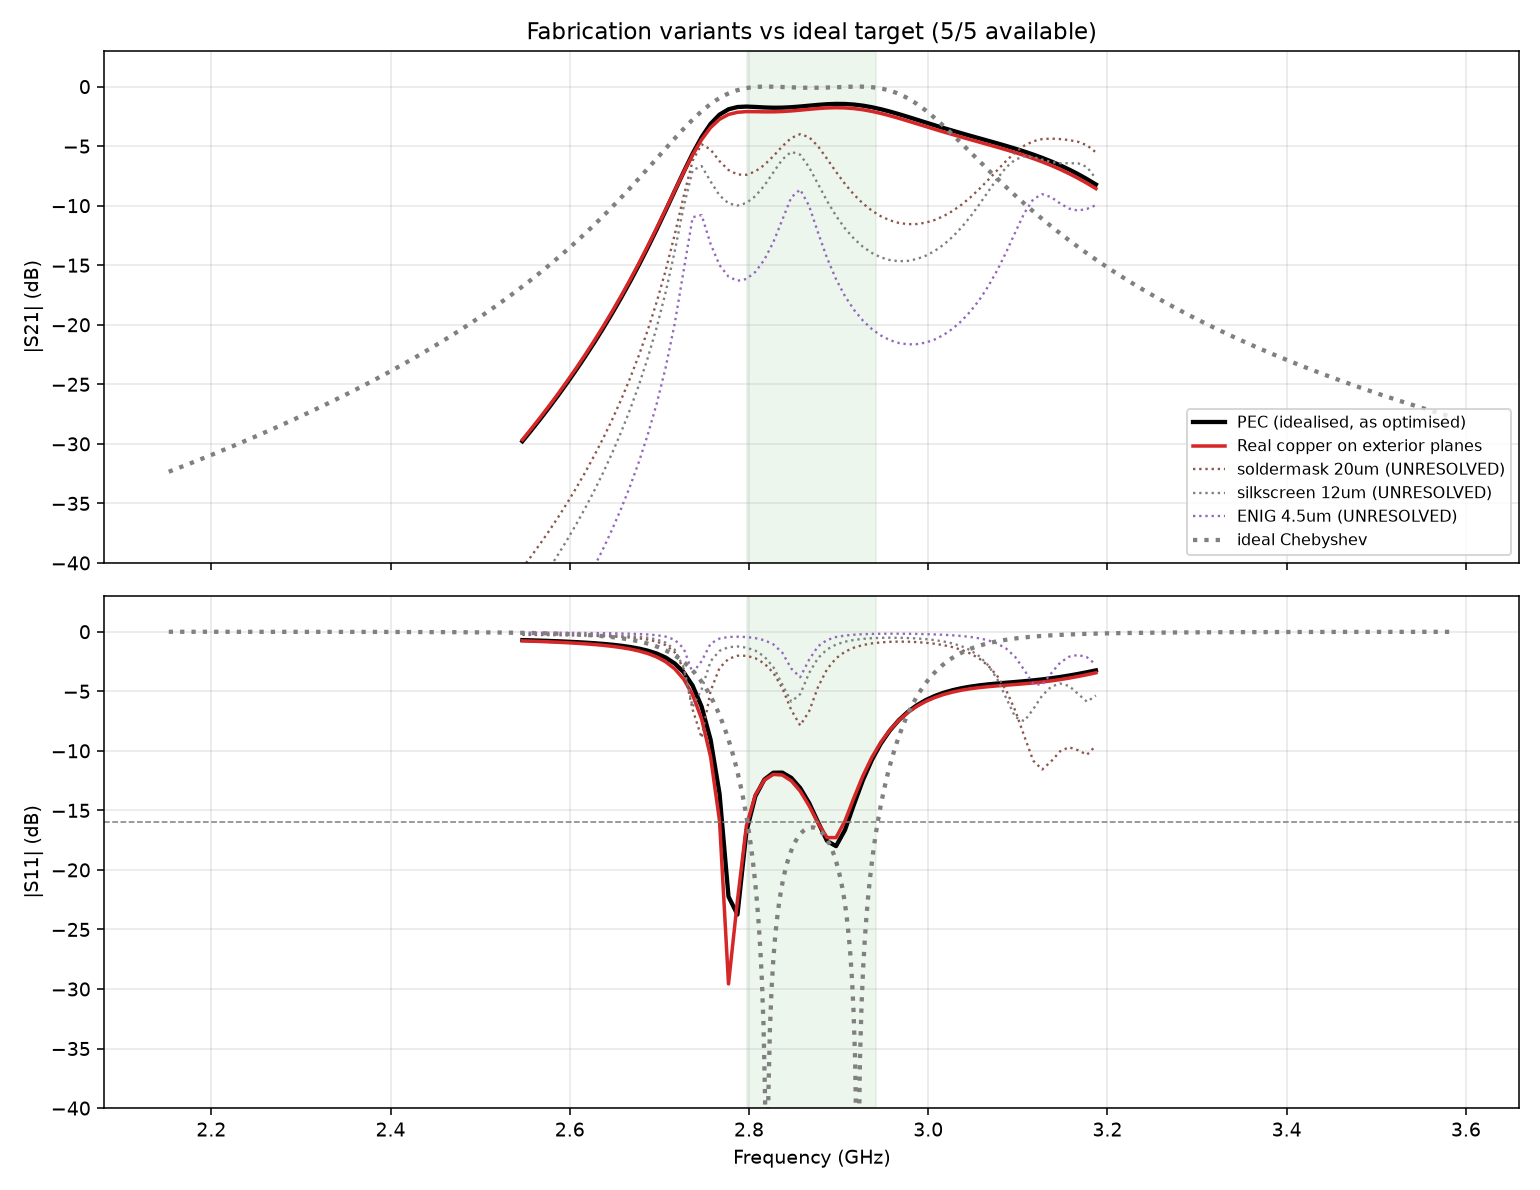
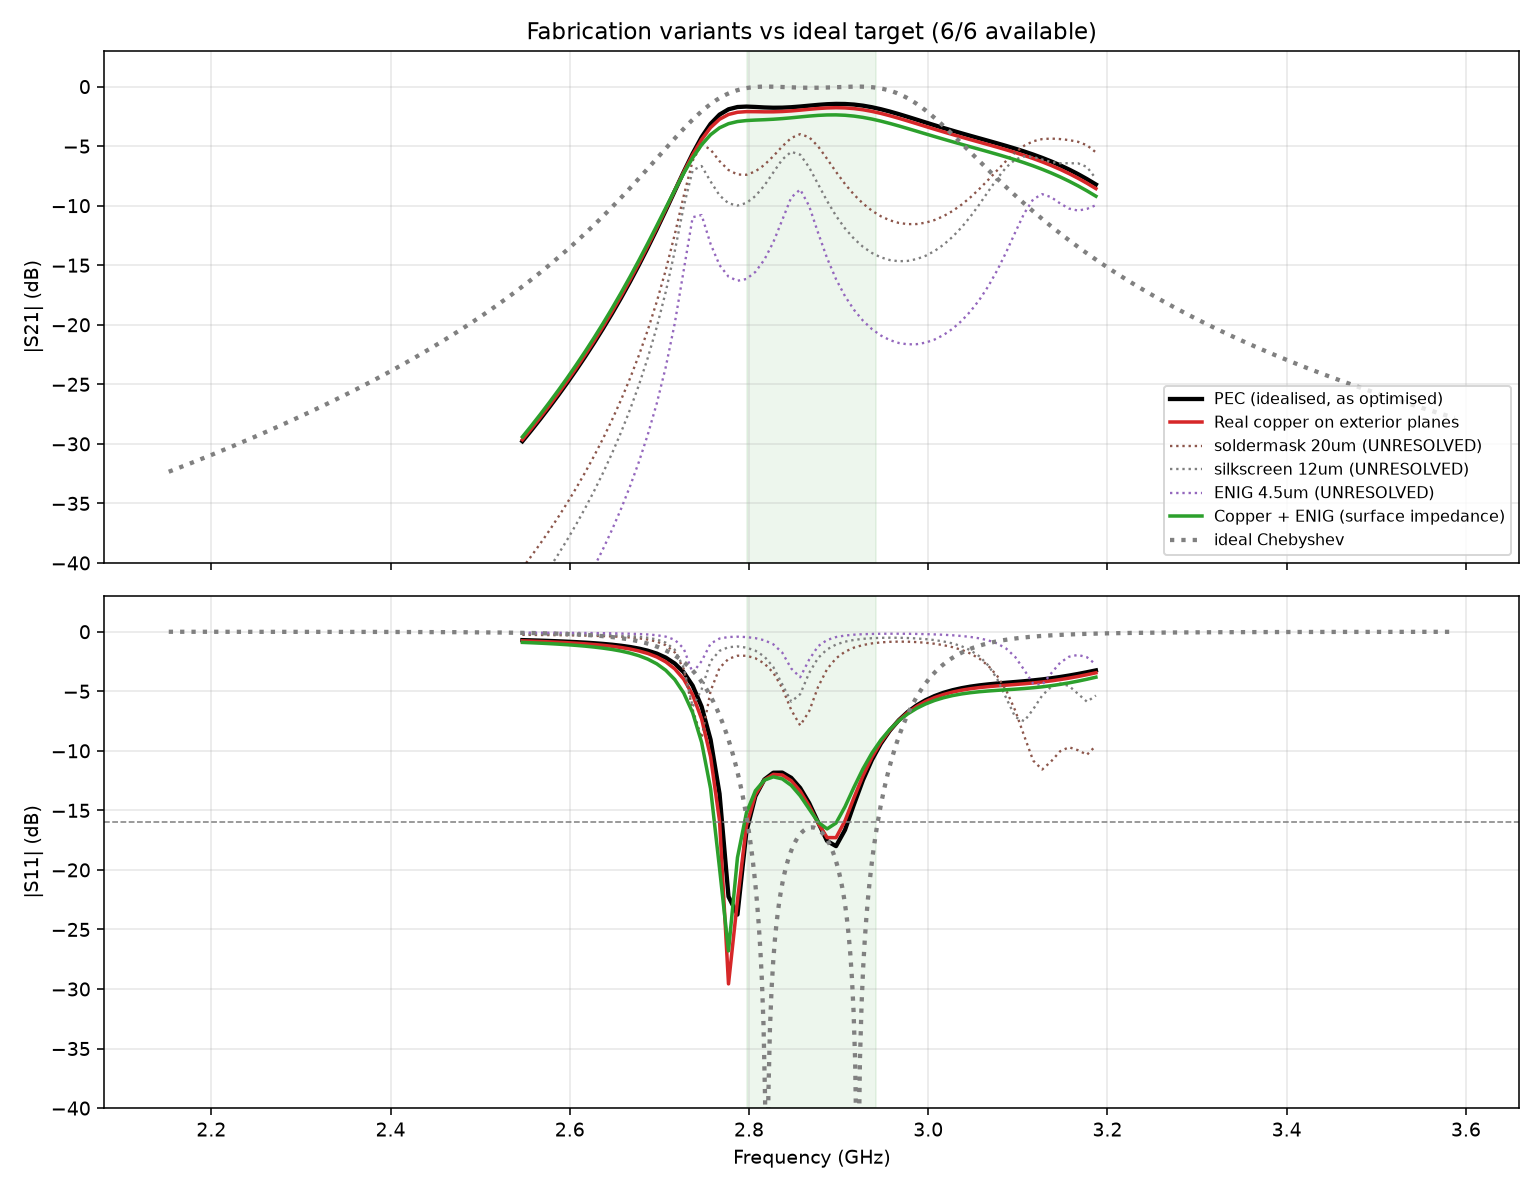
fix: draw the CPWG feed the way the mesher builds it; port copper to cascade
DRAWING-VS-MESH DRIFT (user-spotted, twice over). layout_plot drew the feed
as a constant-width microstrip all the way to the board edge, but both
meshers narrow it to cpwg_w_feed_mm through the coplanar section and taper
out to the microstrip width where the pours end (palace_driven:194,
palace_dualmode_driven:638) -- a CPWG's 50-ohm width is set by its gap, not
by the microstrip formula. Consequences in the picture:
  coplanar gap drawn 0.019mm vs the real 0.2512mm (trace nearly touching
  the pour), and the CPWG taper missing entirely.
So published cascade layouts showed a launch that was never simulated. The
SIMULATIONS were always correct -- cascade has meshed the CPWG launch since
2026-08-31 and the landed N=3 optimization (2026-09-01, two local GP rounds)
used it throughout.

Also fixed the same label bug the user caught earlier on the dual-mode
stackup: the title printed n_gnd_stitch (the REQUEST, 6) instead of the
geometry actually produced (8 per side). _draw_launch_footprint now returns
measured counts and the drawn gap, and the title reports those.

plot_layout gains zoom_launch=True: at board scale a 0.2512mm gap across
~170mm is sub-pixel, so the footprint could not be inspected at all.

COPPER PORTED TO CASCADE. The exterior-face split + Boundaries.Conductivity
surface impedance existed only in palace_dualmode_driven; palace_driven had
none, which is why --real-metal refused for cascade. Ported with the
[…]

diff --git a/src/siwfilter/cli.py b/src/siwfilter/cli.py
@@ -273,8 +273,17 @@ def cmd_design(args) -> int:
     # Pair with `siw synth-design` to generate that seed.
     fab = {}
     if getattr(args, "real_metal", False) or getattr(args, "enig", False):
-        if args.topology != "dualmode":
-            print("--enig/--real-metal are only wired for dualmode so far"); return 1
+        # --real-metal now works for CASCADE too (the exterior-face split was
+        # ported into palace_driven on 2026-09-03). --enig still does not:
+        # ENIG/soldermask/silkscreen are meshed layers, unresolvable at this
+        # mesh density, and ENIG is in any case shielded behind ~14 skin
+        # depths of ground-plane copper. See docs/STATE.md.
+        if args.topology == "cascade" and getattr(args, "enig", False):
+            print("--enig is not available for cascade (and is an RF no-op: the "
+                  "plating sits on the shielded side of the ground plane). Use "
+                  "--real-metal."); return 1
+        if args.topology not in ("dualmode", "cascade"):
+            print("--enig/--real-metal are only wired for dualmode/cascade so far"); return 1
         from .topologies.dualmode import (JLCPCB_METAL, JLCPCB_ENIG,
                                           JLCPCB_SOLDERMASK, JLCPCB_SILKSCREEN, VIA_OPEN)
         fab.update(JLCPCB_METAL)
@@ -717,8 +726,17 @@ def cmd_sweep(args) -> int:
     else:
         params = _parse_params(args.params)
     if getattr(args, "enig", False) or getattr(args, "real_metal", False):
-        if args.topology != "dualmode":
-            print("--enig/--real-metal are only wired for dualmode so far"); return 1
+        # --real-metal now works for CASCADE too (the exterior-face split was
+        # ported into palace_driven on 2026-09-03). --enig still does not:
+        # ENIG/soldermask/silkscreen are meshed layers, unresolvable at this
+        # mesh density, and ENIG is in any case shielded behind ~14 skin
+        # depths of ground-plane copper. See docs/STATE.md.
+        if args.topology == "cascade" and getattr(args, "enig", False):
+            print("--enig is not available for cascade (and is an RF no-op: the "
+                  "plating sits on the shielded side of the ground plane). Use "
+                  "--real-metal."); return 1
+        if args.topology not in ("dualmode", "cascade"):
+            print("--enig/--real-metal are only wired for dualmode/cascade so far"); return 1
         from .topologies.dualmode import (JLCPCB_ENIG, JLCPCB_METAL,
                                           JLCPCB_SOLDERMASK, JLCPCB_SILKSCREEN,
                                           VIA_COVERED, VIA_OPEN)
@@ -801,9 +819,31 @@ def _fab_variant_specs():
     return [
         ("pec_optimized",   {}),
         ("only_cu",         {**JLCPCB_METAL}),       # exterior-plane surface impedance
-        ("only_enig",       {**JLCPCB_ENIG}),        # ENIG conductor domain
-        ("only_mask",       {**JLCPCB_SOLDERMASK}),  # feed-region dielectric
-        ("only_silk",       {**JLCPCB_SILKSCREEN}),  # silkscreen dielectric
+        ("only_enig",       {**JLCPCB_ENIG}),        # ENIG conductor domain -- UNRESOLVABLE
+        ("only_mask",       {**JLCPCB_SOLDERMASK}),  # feed-region dielectric -- UNRESOLVABLE
+        ("only_silk",       {**JLCPCB_SILKSCREEN}),  # silkscreen dielectric -- UNRESOLVABLE
+        # NO COPPER+ENIG CELL, and the reason is geometric rather than
+        # numerical (2026-09-03, user's observation).
+        #
+        # It is tempting to model the finish as one effective surface
+        # impedance for the two-layer stack: 4.5um Ni-P at 2.87GHz is 0.62
+        # skin depths, so a wave ARRIVING THROUGH THE PLATING sees
+        # Rs = 39.6 mohm/sq against copper's 13.8 -- 2.87x, equivalent to
+        # sigma = 7.225e6 S/m. That arithmetic is correct and irrelevant
+        # here: it describes the wrong side of the metal.
+        #
+        # The exterior ground planes are 17.5um of copper, ~14 skin depths.
+        # RF current flows on their INNER face, against the substrate. The
+        # ENIG is plated on the OUTER face, shielded behind all of that
+        # copper, carrying essentially no current. Charging it ENIG loss
+        # would attribute dissipation to a surface the field never reaches.
+        #
+        # ENIG can only matter where a plated surface FACES the field -- the
+        # microstrip feed trace and the CPWG ground pads. Those are internal
+        # two-sided sheets, where Palace's exterior-only Conductivity BC does
+        # not apply, and they are a small fraction of the wall current in any
+        # case. So the honest model is: ENIG is an RF no-op for this design.
+        # See docs/STATE.md, "what the fabrication stack costs".
     ]
 
 
@@ -821,7 +861,7 @@ def cmd_compare_fab_variants(args) -> int:
             print("--run needs --params (the fixed geometry to hold across variants)")
             return 1
         from .config import SPEC, FilterSpec
-        topo = REGISTRY["dualmode"]
+        topo = REGISTRY[getattr(args, "topology", "dualmode")]
         spec = FilterSpec(f0=SPEC.f0, FBW=SPEC.FBW, N=args.N,
                           ripple_db=SPEC.ripple_db,
                           substrate_name=SPEC.substrate_name,
@@ -830,7 +870,14 @@ def cmd_compare_fab_variants(args) -> int:
         out = _json.load(open(result_json)) if (args.resume and os.path.exists(result_json)) else {}
         out["_geometry"] = base
         print(f"fabrication variants at FIXED geometry {base}")
-        for key, overlay in _fab_variant_specs():
+        specs = _fab_variant_specs()
+        if topo.name != "dualmode":
+            # The meshed-layer diagnostic cells (only_enig/mask/silk) exist
+            # only in the dual-mode mesh builder, and their numbers are
+            # meaningless anyway (unresolved slivers). For any other topology
+            # the honest study is PEC vs real copper.
+            specs = [(k, ov) for k, ov in specs if k in ("pec_optimized", "only_cu")]
+        for key, overlay in specs:
             # Resume skips only SUCCEEDED variants. Skipping failed ones too
             # would make --resume permanently entrench a transient failure
             # (the first run lost three variants to an OOM kill, which is a
@@ -1143,6 +1190,9 @@ def main(argv: list[str] | None = None) -> int:
                                 "still solving; also saves the plotted curves + metrics as JSON.")
     p_fab.add_argument("--result-json", default=None,
                        help="variant sweep results (default: output/data/four_variants_result.json)")
+    p_fab.add_argument("--topology", default="dualmode", choices=_TOPOLOGY_CHOICES,
+                       help="topology to run the variants on (default dualmode). "
+                            "cascade runs PEC vs real copper only.")
     p_fab.add_argument("--run", action="store_true",
                        help="RUN the variants first (dualmode) instead of only plotting a "
                             "previous sweep. Needs --params: the one fixed geometry every "

diff --git a/src/siwfilter/layout_plot.py b/src/siwfilter/layout_plot.py
@@ -12,6 +12,7 @@ from __future__ import annotations
 
 import csv
 
+import numpy as np
 import matplotlib
 matplotlib.use("Agg")
 import matplotlib.pyplot as plt
@@ -23,6 +24,29 @@ from .palace_dualmode_driven import gnd_stitch_layout
 
 MM = 1e3  # metres -> mm for plotting/CSV
 
+
+
+def _cpwg_feed_polys(g: Geometry, launch: dict):
+    """Feed outline for a CPWG launch, in METRES, matching what the mesher
+    builds: width cpwg_w_feed_mm from the board edge through cpwg_len_mm,
+    linearly tapered over cpwg_taper_mm to the microstrip width g.W_ms, then
+    constant to the SIW wall. Mirrored at the output end."""
+    wp = launch["cpwg_w_feed_mm"] / MM          # mm -> m
+    wm = g.W_ms
+    clen = launch.get("cpwg_len_mm", 5.0) / MM
+    ctap = launch.get("cpwg_taper_mm", 4.0) / MM
+    Lf, Lt, Li = g.L_feed, g.L_taper, g.L_inner
+    X0 = -(Lt + Lf)
+    out = []
+    for x_edge, sgn in ((X0, +1.0), (Li + Lt + Lf, -1.0)):
+        xa = x_edge + sgn * clen                # end of constant CPWG section
+        xb = xa + sgn * ctap                    # end of the taper
+        xc = x_edge + sgn * (Lt + Lf)           # SIW wall / start of the flare
+        out.append(np.array([
+            (x_edge, -wp / 2), (xa, -wp / 2), (xb, -wm / 2), (xc, -wm / 2),
+            (xc,  wm / 2), (xb,  wm / 2), (xa,  wp / 2), (x_edge,  wp / 2),
+        ]))
+    return out
 
 def _draw_launch_footprint(ax, g: Geometry, launch: dict) -> None:
     """Overlay the connector ground pads, stitching vias and pin -- same
@@ -59,6 +83,14 @@ def _draw_launch_footprint(ax, g: Geometry, launch: dict) -> None:
         for x_edge in (X0, X1):
             ax.add_patch(Circle((x_edge, 0.0), rin, fc="none", ec="#c00",
                                 lw=1.2, zorder=6))
+    # Return what was actually DRAWN. Labels must report measured geometry,
+    # never the requested parameter: n_gnd_stitch=6 yields 8 vias per side
+    # here, and printing the request instead of the result is a mismatch this
+    # project has already shipped once.
+    n_in = sum(1 for x, _y in via_centres if x < 0.5 * (X0 + X1))
+    return {"n_stitch_per_side": n_in, "n_stitch_total": len(via_centres),
+            "gap_mm": (launch.get("cpwg_y_gnd_mm", 0.0)
+                       - launch.get("cpwg_w_feed_mm", 0.0) / 2.0)}
 
 
 def export_via_csv(g: Geometry, path: str = "via_coords.csv") -> None:
@@ -72,18 +104,39 @@ def export_via_csv(g: Geometry, path: str = "via_coords.csv") -> None:
     print(f"Wrote {path} ({len(g.vias)} vias)")
 
 
-def plot_layout(g: Geometry, path: str = "layout.png", launch: dict | None = None) -> None:
+def plot_layout(g: Geometry, path: str = "layout.png", launch: dict | None = None,
+                zoom_launch: bool = False) -> None:
+    """Top view. zoom_launch=True crops to the INPUT launch instead of the
+    whole board -- at board scale the CPWG gap (0.2512mm over ~170mm) is
+    sub-pixel and the footprint cannot be inspected."""
     spec, sub = g.spec, g.spec.substrate
-    fig, ax = plt.subplots(figsize=(13, 4.5))
+    fig, ax = plt.subplots(figsize=(9, 7) if zoom_launch else (13, 4.5))
 
     # Board outline
     xmin, xmax, ymin, ymax = (v * MM for v in g.board)
     ax.add_patch(Rectangle((xmin, ymin), xmax - xmin, ymax - ymin,
                            fill=False, ec="0.4", lw=1.0, ls="--"))
 
-    # Copper feed + tapers (drawn as filled polygons)
-    for poly in g.feed_polys + g.taper_polys:
-        ax.add_patch(Polygon(poly * MM, closed=True, fc="#d9a441",
+    # Copper feed + tapers (drawn as filled polygons).
+    #
+    # With a CPWG launch the feed is NOT a constant-width microstrip: the
+    # mesher (palace_driven / palace_dualmode_driven, "_wp = cpwg_w_feed_mm")
+    # builds it at the CPWG 50-ohm width through the coplanar section, then
+    # tapers it out to the microstrip 50-ohm width where the ground pours
+    # end -- the two widths are different because a CPWG's impedance is set
+    # by its gap, not by the microstrip formula.
+    #
+    # Drawing a constant-width trace here understated the coplanar gap as
+    # 0.019mm instead of 0.2512mm (the trace nearly touching the pour) and
+    # hid the taper entirely, i.e. the picture showed a launch that is not
+    # the one simulated. That is the same drawing-vs-mesh drift class this
+    # project has hit before; the fix is to derive the drawn outline from
+    # the same launch parameters the mesh uses.
+    feed_polys = list(g.feed_polys)
+    if launch and launch.get("cpwg_gap_mm") is not None:
+        feed_polys = _cpwg_feed_polys(g, launch)
+    for poly in feed_polys + g.taper_polys:
+        ax.add_patch(Polygon(np.asarray(poly) * MM, closed=True, fc="#d9a441",
                              ec="#a06d12", lw=0.8, alpha=0.7, zorder=1))
 
     # Cavity boundary shading (alternating) + labels
@@ -117,8 +170,7 @@ def plot_layout(g: Geometry, path: str = "layout.png", launch: dict | None = Non
             _dim_v(ax, x_face, -we / 2, we / 2, f"w_ext={we:.1f}",
                    color="#b00", off=0)
 
-    if launch:
-        _draw_launch_footprint(ax, g, launch)
+    lp = _draw_launch_footprint(ax, g, launch) if launch else None
 
     ax.set_xlabel("x [mm]")
     ax.set_ylabel("y [mm]")
@@ -130,8 +182,24 @@ def plot_layout(g: Geometry, path: str = "layout.png", launch: dict | None = Non
         f"{iris_src}",
         fontsize=10)
     ax.set_aspect("equal")
-    ax.set_xlim(xmin - 3, xmax + 8)
-    ax.set_ylim(ymin - 8, ymax + 8)
+    if zoom_launch:
+        # Frame the input launch: from just outside the board edge to a little
+        # past where the CPWG ground pads end and the taper meets the SIW wall.
+        x_edge = -(g.L_taper + g.L_feed) * MM
+        span = (g.L_taper + g.L_feed) * MM
+        ax.set_xlim(x_edge - 2.0, x_edge + span + 4.0)
+        yl = max(g.W_ms * MM * 6.0, (launch or {}).get("cpwg_y_out_mm", 3.6) * 2.5)
+        ax.set_ylim(-yl, yl)
+        lk = launch or {}
+        ax.set_title(
+            f"CPWG launch footprint (input) — coplanar gap {lp['gap_mm']:.4f} mm "
+            f"(measured from the drawn outline)\n"
+            f"feed {lk.get('cpwg_w_feed_mm', 0):.2f} mm through the CPWG section, "
+            f"tapered to microstrip W={g.W_ms*MM:.3f} mm; "
+            f"{lp['n_stitch_per_side']} stitch vias/side (drawn)", fontsize=10)
+    else:
+        ax.set_xlim(xmin - 3, xmax + 8)
+        ax.set_ylim(ymin - 8, ymax + 8)
     ax.grid(True, alpha=0.2)
     fig.tight_layout()
     fig.savefig(path, dpi=130)

diff --git a/src/siwfilter/palace_driven.py b/src/siwfilter/palace_driven.py
@@ -56,6 +56,8 @@ def build_mesh(mesh_max: float = 3.0, mesh_min: float = 0.5,
                # topologies/cascade._n_iris_params. Takes precedence over
                # w_iris_mm when both are given.
                w_irises_mm: list[float] | None = None,
+               metal_conductivity_sm: float | None = None,
+               metal_thickness_um: float | None = None,
                with_sma: bool = False, sma_len_mm: float = 6.0,
                sma_rin_mm: float = 0.35, sma_rout_mm: float = 1.164,
                sma_eps_r: float = 2.08, sma_tand: float = 4.0e-4,
@@ -326,6 +328,7 @@ def build_mesh(mesh_max: float = 3.0, mesh_min: float = 0.5,
 
     # ---- classify boundary surfaces ----
     pec, wave_in, wave_out, absorbing = [], [], [], []
+    pec_ext_flag: dict[int, bool] = {}
     for dim, tag in gmsh.model.getEntities(2):
         cx, cy, cz = gmsh.model.occ.getCenterOfMass(2, tag)
         xmin, ymin_f, _, xmax, ymax_f, _ = gmsh.model.getBoundingBox(2, tag)
@@ -363,9 +366,9 @@ def build_mesh(mesh_max: float = 3.0, mesh_min: float = 0.5,
                 on_sma_cap = True
 
         if _near(cz, 0.0):                                    # bottom ground
-            pec.append(tag)
+            pec.append(tag); pec_ext_flag[tag] = is_boundary
         elif on_via or on_sma_pin or on_sma_shell or on_sma_cap:
-            pec.append(tag)                                   # via/pin/shell/cap
+            pec.append(tag); pec_ext_flag[tag] = is_boundary   # via/pin/shell/cap
         elif with_sma and _near(cx, Xc0) and xmax - xmin < 1e-3:
             wave_in.append(tag)                               # coax port (in)
         elif with_sma and _near(cx, Xc1) and xmax - xmin < 1e-3:
@@ -376,9 +379,9 @@ def build_mesh(mesh_max: float = 3.0, mesh_min: float = 0.5,
             wave_out.append(tag)                              # microstrip port (out)
         elif _near(cz, h):                                    # z=h plane
             if 0.0 - 1e-6 <= cx <= Li + 1e-6:                 # SIW top ground
-                pec.append(tag)
+                pec.append(tag); pec_ext_flag[tag] = is_boundary
             elif any(_in_poly(cx, cy, poly) for poly in trace_polys):
-                pec.append(tag)                               # microstrip trace
+                pec.append(tag); pec_ext_flag[tag] = is_boundary  # microstrip trace
             # else: open substrate/air interface -> no BC (internal)
         elif is_boundary:                                     # outer air/diel
             absorbing.append(tag)
@@ -386,7 +389,26 @@ def build_mesh(mesh_max: float = 3.0, mesh_min: float = 0.5,
     pec = sorted(set(pec))
     absorbing = sorted(set(absorbing) - set(pec) - set(wave_in) - set(wave_out))
 
+    # Real (lossy) metal, ported from palace_dualmode_driven 2026-09-03 so the
+    # CASCADE can carry the same conductor-loss model the dual-mode design
+    # already had. Palace's Boundaries.Conductivity (surface impedance) is
+    # EXTERIOR-ONLY -- valid on the ground planes, which are true one-sided
+    # mesh boundaries, and invalid on via barrels and the trace, which are
+    # internal two-sided sheets. So split the single PEC group: exterior
+    # metal gets real copper, internal metal stays PEC.
+    # EXTERIOR-ness comes from mesh topology (is_boundary), never from an
+    # assumption about z -- a face's exterior status changes the moment
+    # anything is meshed above it.
+    # metal_conductivity_sm=None (the default) keeps everything PEC and
+    # reproduces every existing cascade golden exactly.
+    pec_real = []
+    if metal_conductivity_sm:
+        pec_real = sorted(t for t in pec if pec_ext_flag.get(t))
+        pec = sorted(set(pec) - set(pec_real))
+
     gmsh.model.addPhysicalGroup(2, pec, tag=10, name="pec")
+    if pec_real:
+        gmsh.model.addPhysicalGroup(2, pec_real, tag=15, name="metal_real")
     gmsh.model.addPhysicalGroup(2, wave_in, tag=11, name="port_in")
     gmsh.model.addPhysicalGroup(2, wave_out, tag=12, name="port_out")
     gmsh.model.addPhysicalGroup(2, absorbing, tag=13, name="absorbing")
@@ -437,6 +459,12 @@ def build_mesh(mesh_max: float = 3.0, mesh_min: float = 0.5,
     nnode = len(gmsh.model.mesh.getNodes()[0])
     legend = {"dielectric": 1, "air": 2, "pec": 10, "port_in": 11,
               "port_out": 12, "absorbing": 13}
+    metal_info = None
+    if pec_real:
+        legend["metal_real"] = 15
+        metal_info = {"conductivity_sm": metal_conductivity_sm,
+                      "thickness_um": metal_thickness_um,
+                      "n_faces": len(pec_real)}
     sma_info = None
     if with_sma:
         legend["sma_ptfe"] = 3
@@ -470,6 +498,7 @@ def build_mesh(mesh_max: float = 3.0, mesh_min: float = 0.5,
         print(f"  WROTE {out}")
     gmsh.finalize()
     return {"mesh": out, "tets": ntet, "nodes": nnode, "legend": legend,
+            "metal_real": metal_info,
             "ports": (len(wave_in), len(wave_out)), "sma": sma_info}
 
 

diff --git a/src/siwfilter/topologies/cascade.py b/src/siwfilter/topologies/cascade.py
@@ -159,8 +159,13 @@ class CascadeTopology:
             # render_png=/preview= short-circuit before a real mesh is built
             # (see palace_driven.build_mesh) -- nothing to translate.
             return res  # type: ignore[return-value]
+        # metal_real must be forwarded: optimize._driven_config reads it to emit
+        # the Boundaries.Conductivity surface impedance. An adapter silently
+        # dropping a feature dict is exactly how two earlier fabrication
+        # studies ran with the feature switched off (CLAUDE.md sec 10c).
         return {"mesh_path": res["mesh"], "ports": res["ports"], "tets": res["tets"],
                 "nodes": res["nodes"], "sma": res.get("sma"),
+                "metal_real": res.get("metal_real"),
                 "eps_r": spec.substrate.eps_r, "tand": spec.substrate.tan_d}
 
     def _geometry(self, spec: FilterSpec, params: dict):
@@ -180,8 +185,9 @@ class CascadeTopology:
         return g
 
     def plot_layout_2d(self, spec: FilterSpec, path: str, **params) -> str:
+        zoom = bool(params.pop("zoom_launch", False))
         g = self._geometry(spec, params)
-        plot_layout(g, path, launch=TAOGLAS_SMA)
+        plot_layout(g, path, launch=TAOGLAS_SMA, zoom_launch=zoom)
         return path
 
     def board_length_mm(self, spec: FilterSpec, **params) -> float:
